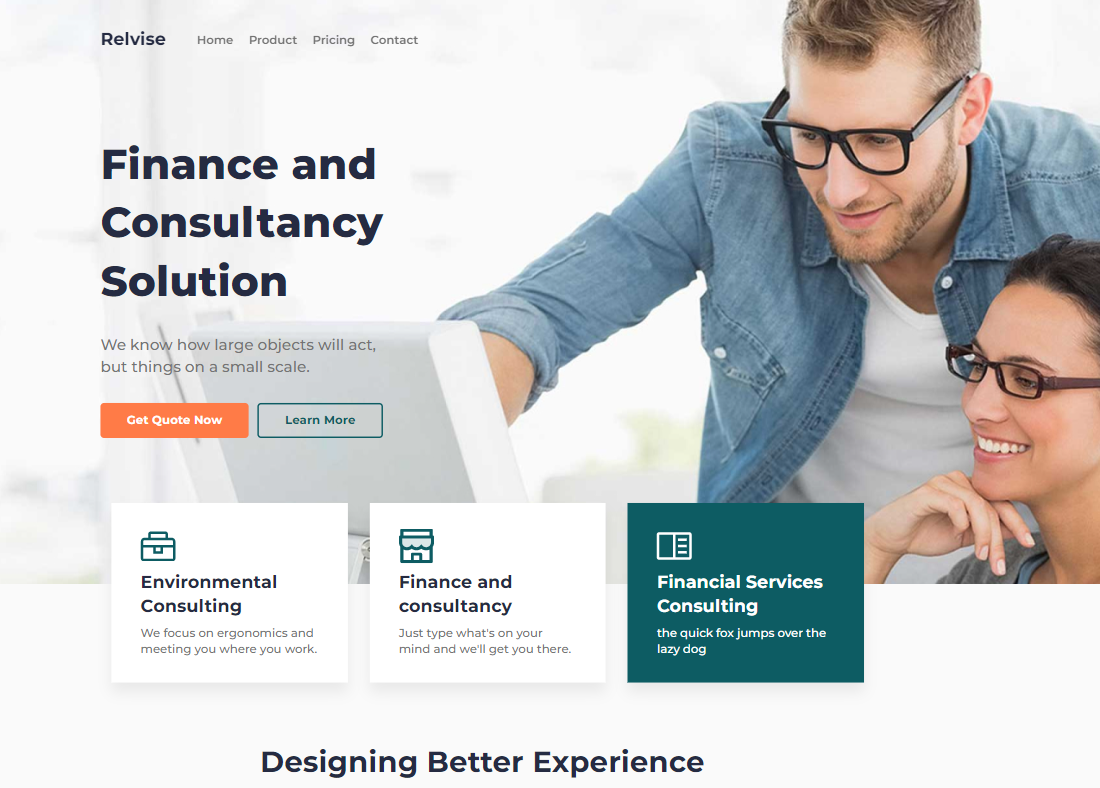
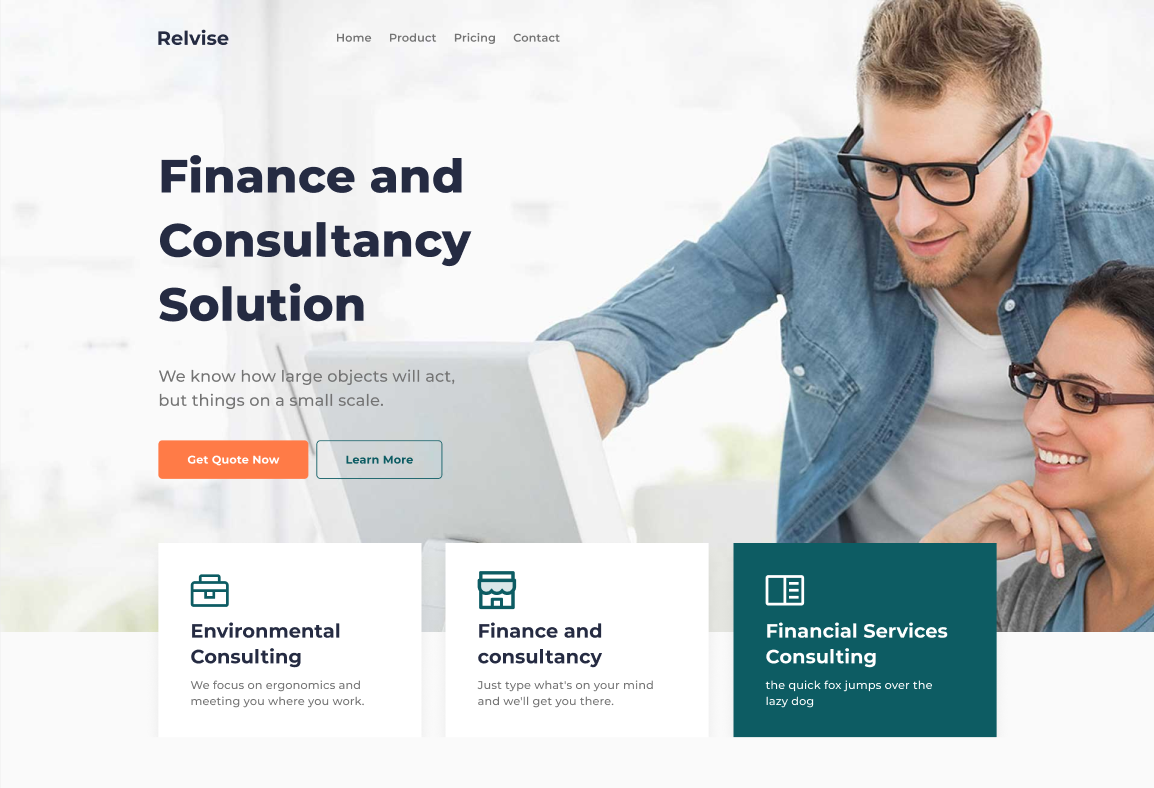
update: screenshot

diff --git a/css/style.scss b/css/style.scss
@@ -391,7 +391,7 @@ body {
     @media (min-width: 670px) {
       display: flex;
       flex-wrap: wrap;
-      margin: 0px -15px 0px 0px;
+      margin: 0px -15px;
     }
   }
 

diff --git a/css/style.css b/css/style.css
@@ -410,7 +410,7 @@ body {
   .services__body {
     display: flex;
     flex-wrap: wrap;
-    margin: 0px -15px 0px 0px;
+    margin: 0px -15px;
   }
 }
 
